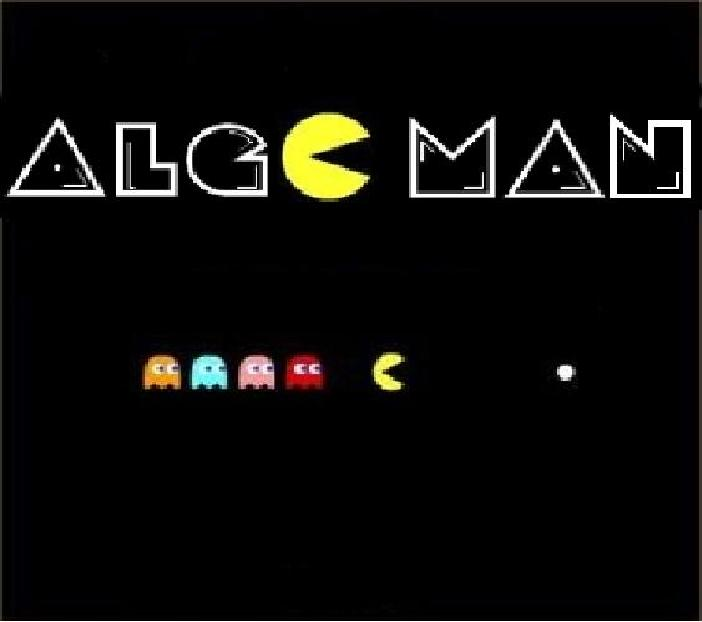
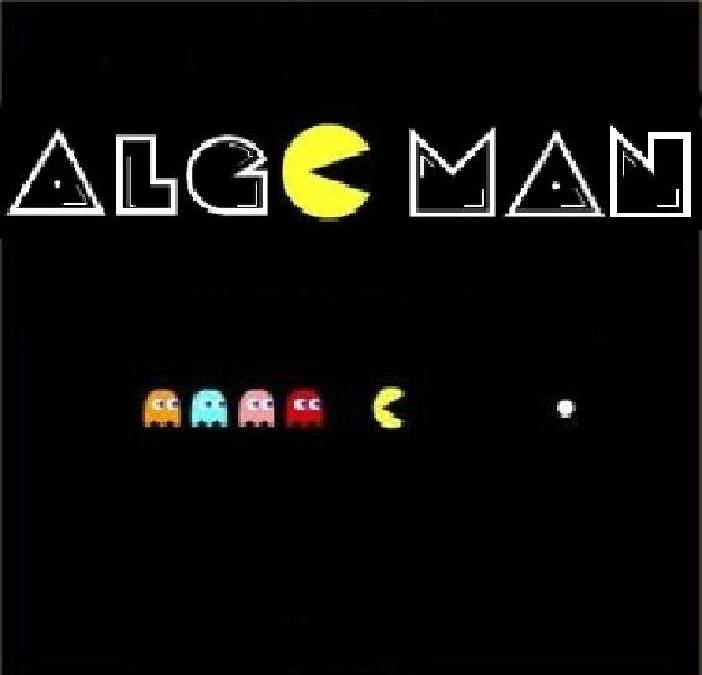
Movi los puntos y las vidas a una barra nueva en el fondo de la ventana

diff --git a/src/modelo/vista/fijos/VistaVidas.java b/src/modelo/vista/fijos/VistaVidas.java
@@ -10,9 +10,9 @@ import ar.uba.fi.algo3.titiritero.vista.Imagen;
 public class VistaVidas extends Imagen{
 
 	public VistaVidas(){
-		String nombreArchivoImagen = "pacman.JPG";
+		String nombreArchivoImagen = "pacmanDerecha.JPG";
 		setNombreArchivoImagen(nombreArchivoImagen);
-		Punto posicionVidas = new Punto (23*25, 12*25);
+		Punto posicionVidas = new Punto (15*25, 26*25);
 		setPosicionable(posicionVidas);
 	}
 	
@@ -20,8 +20,8 @@ public class VistaVidas extends Imagen{
 		int vidas = Juego.getInstancia().getJugador().getCantVidas();
 		Graphics grafico = (Graphics)superficeDeDibujo.getBuffer();
 		for (int i = 1; i <= vidas; i++){
-			grafico.drawImage(super.getImagen(), super.getPosicionable().getX(), 
-					super.getPosicionable().getY() + i*25, null);
+			grafico.drawImage(super.getImagen(), super.getPosicionable().getX() + i*25, 
+					super.getPosicionable().getY(), null);
 		}
 	}
 	

diff --git a/src/modelo/fijos/AlgoMan.java b/src/modelo/fijos/AlgoMan.java
@@ -14,6 +14,7 @@ import modelo.moviles.Pacman;
 import modelo.vista.control.EscuchadorDeKeyPress;
 import modelo.vista.control.VentanaPrincipal;
 import modelo.vista.control.VistaPrincipal;
+import modelo.vista.fijos.VistaBarraDeDatos;
 import modelo.vista.fijos.VistaCasillero;
 import modelo.vista.fijos.VistaPuntoDePoder;
 import modelo.vista.fijos.VistaPuntos;
@@ -65,6 +66,9 @@ public class AlgoMan {
 	
 	private static void generarVistaDeDatos(ControladorJuego controlador,
 			Tablero tablero) {
+		
+		VistaBarraDeDatos vDatos = new VistaBarraDeDatos();
+		controlador.agregarDibujable(vDatos);
 		
 		VistaPuntos vPuntos = new VistaPuntos();
 		controlador.agregarDibujable(vPuntos);

diff --git a/src/modelo/vista/fijos/VistaBarraDeDatos.java b/src/modelo/vista/fijos/VistaBarraDeDatos.java
@@ -1,0 +1,14 @@
+package modelo.vista.fijos;
+
+import modelo.fijos.Punto;
+import ar.uba.fi.algo3.titiritero.vista.Imagen;
+
+public class VistaBarraDeDatos extends Imagen{
+	
+	public VistaBarraDeDatos(){
+		String nombreArchivoImagen = "barraDatos.JPG";
+		setNombreArchivoImagen(nombreArchivoImagen);
+		setPosicionable(new Punto (0 , 25*25));
+	}
+
+}

diff --git a/src/modelo/moviles/Fantasma.java b/src/modelo/moviles/Fantasma.java
@@ -145,7 +145,7 @@ public abstract class Fantasma extends Personaje implements Integrante, ObjetoVi
 
 	public void volverACasa(){
 		this.tiempoPoder = 0;
-		this.tiempoEnCasa = 15;
+		this.tiempoEnCasa = 10;
 		this.setPosicion(super.getPosicionInicial());
 		}
 		

diff --git a/src/modelo/vista/fijos/VistaPuntos.java b/src/modelo/vista/fijos/VistaPuntos.java
@@ -11,7 +11,7 @@ public class VistaPuntos extends Texto {
 
 	public VistaPuntos(){
 		super();
-		Punto posicion = new Punto(23*25 , 11*25);
+		Punto posicion = new Punto(5*25 , 26*25);
 		setPosicionable(posicion);
 		setFuente(Font.MONOSPACED, 14);
 	}

diff --git a/src/modelo/vista/control/VentanaPrincipal.java b/src/modelo/vista/control/VentanaPrincipal.java
@@ -41,7 +41,7 @@ public class VentanaPrincipal extends Frame {
 		
 		this.setTitle("ALGO3 - MAN");
 		
-		this.setSize(705,675);
+		this.setSize(705,725);
 		
 		this.setResizable(false);
 		
